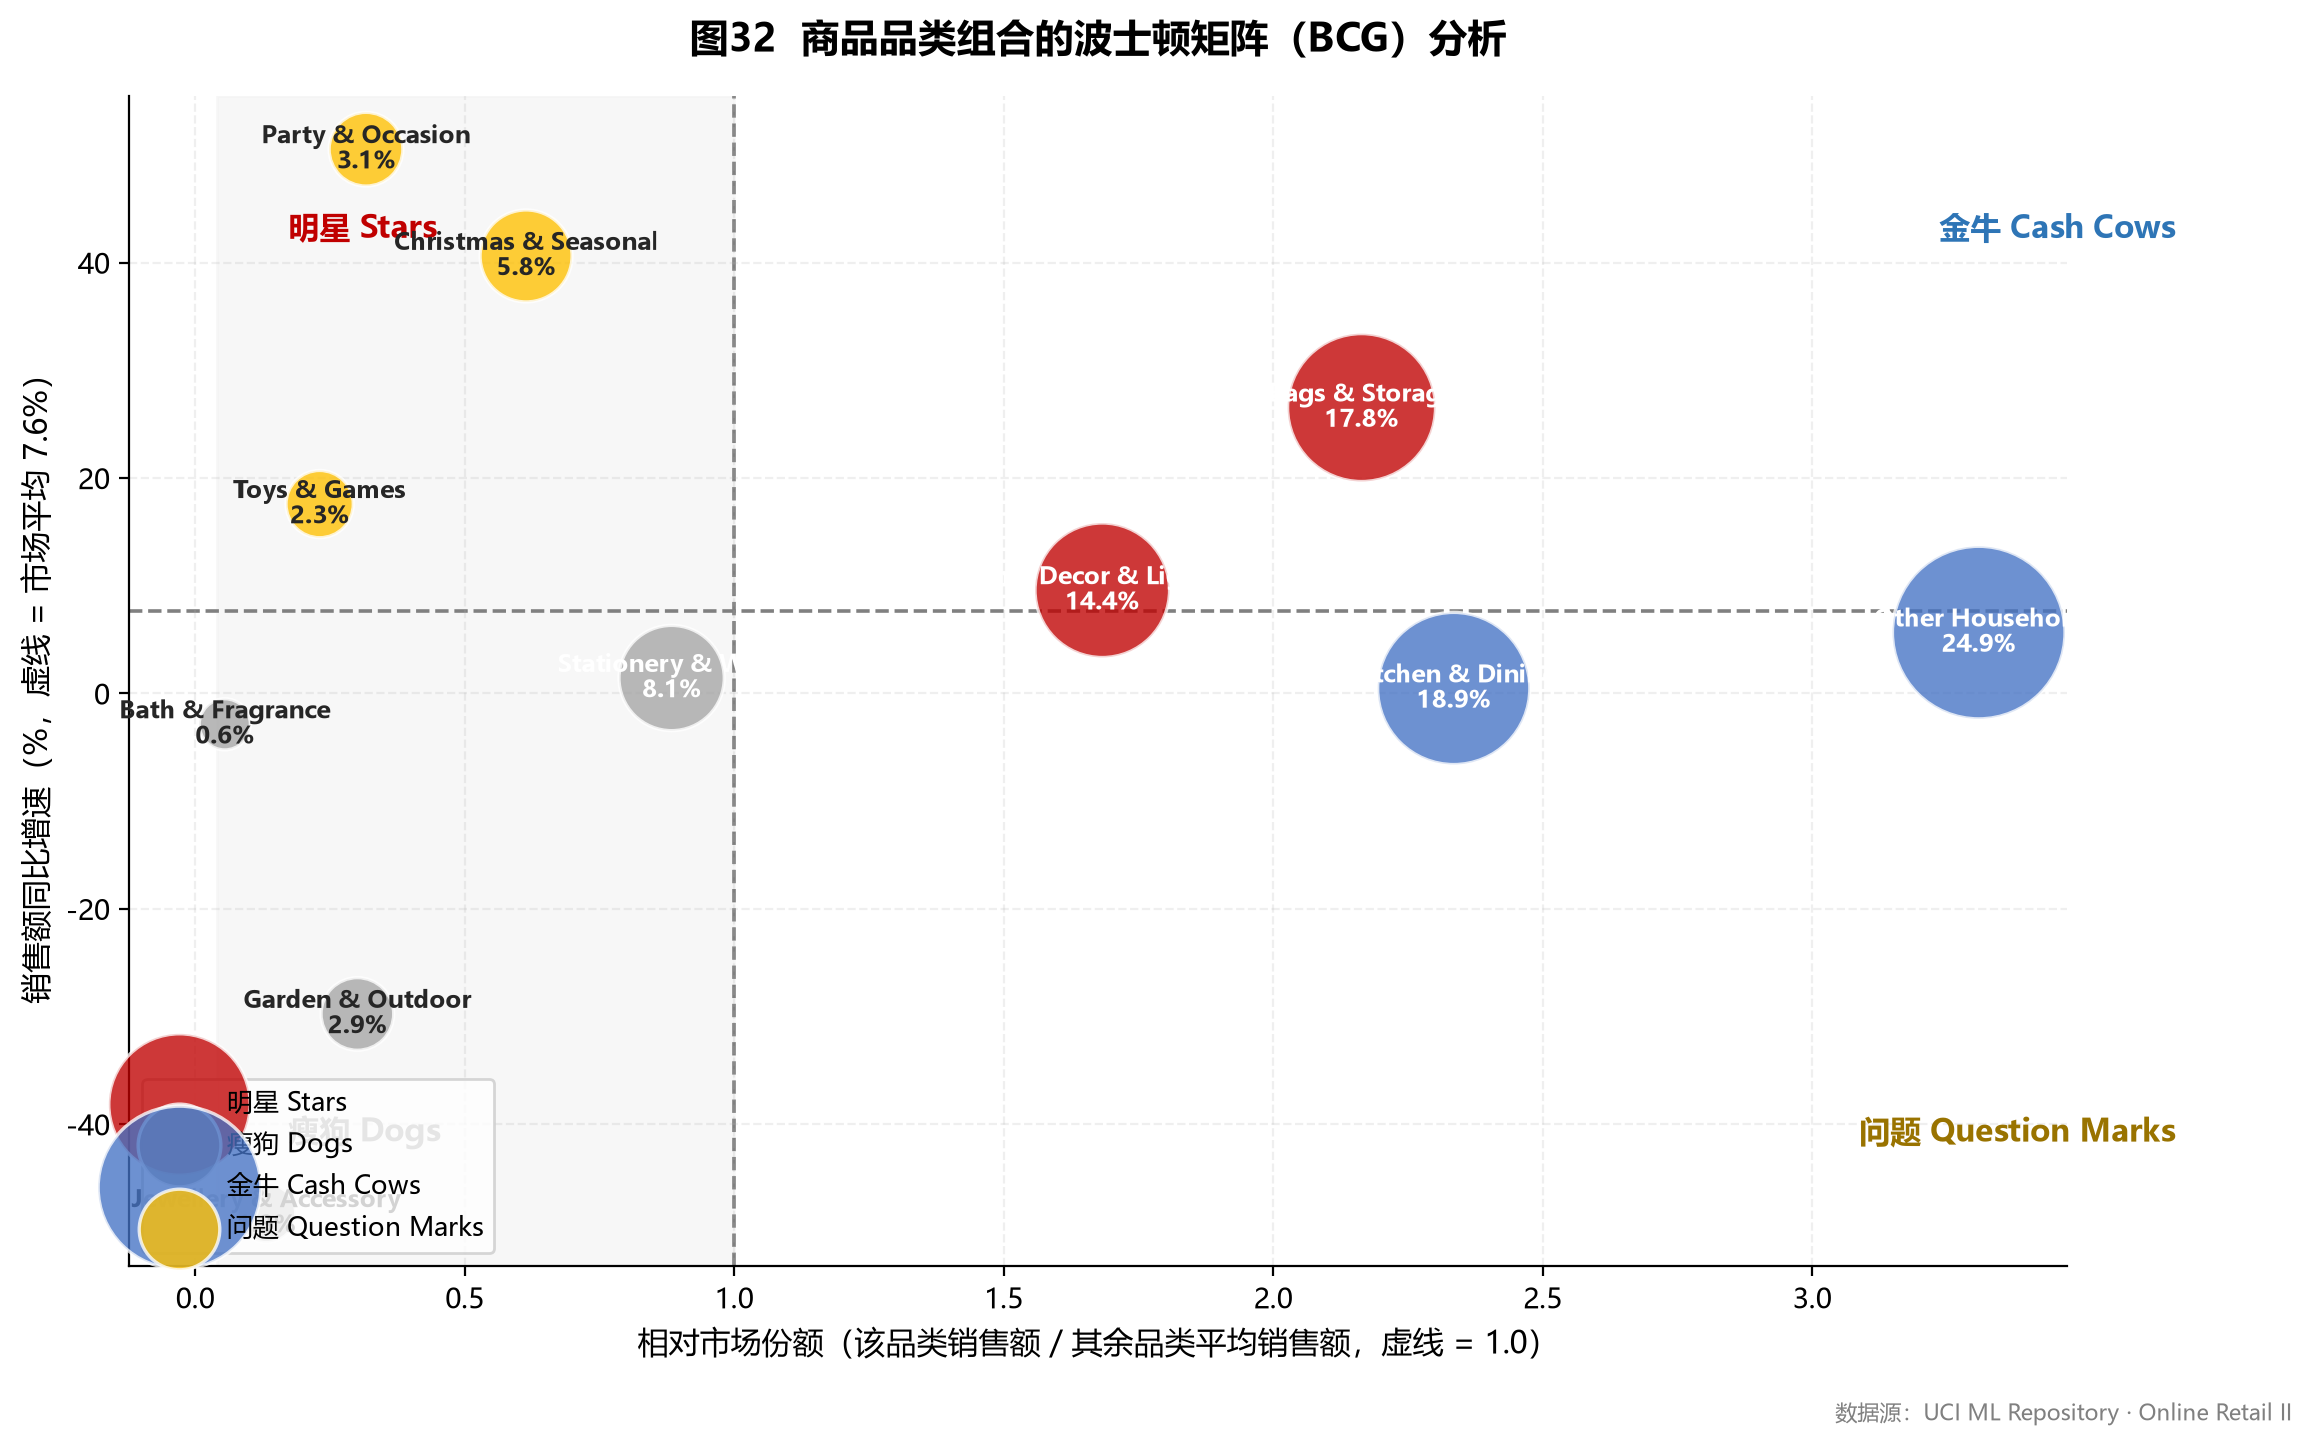
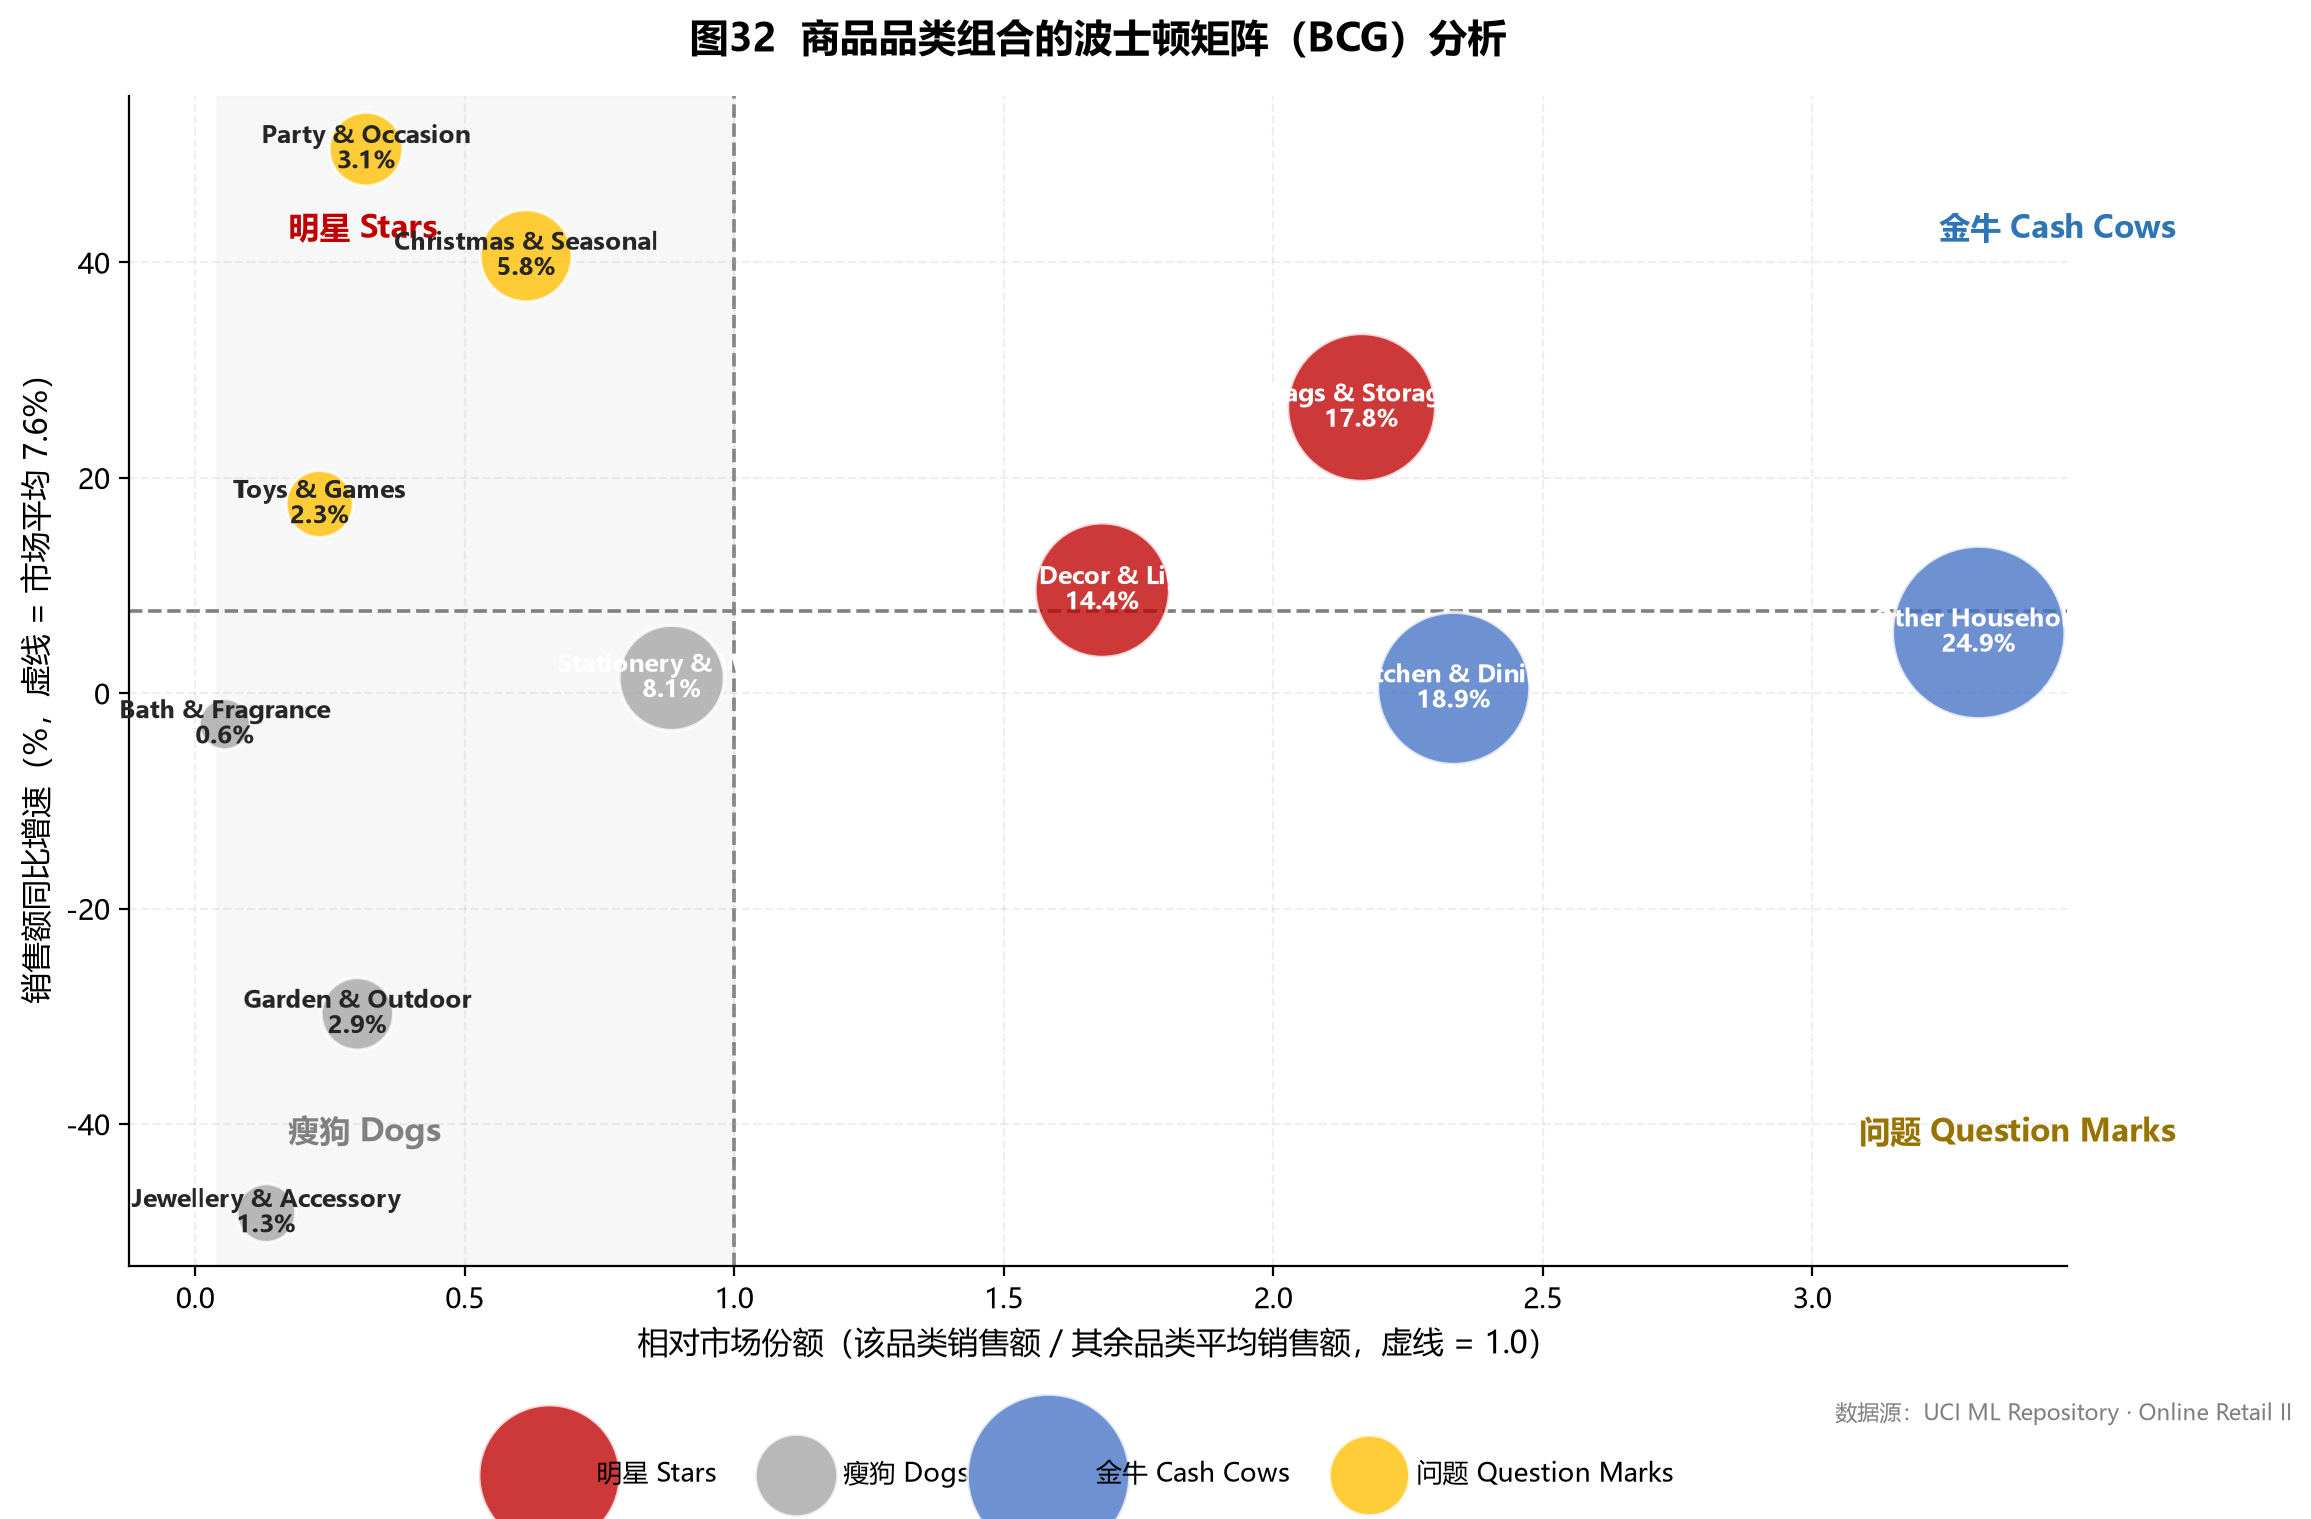
fix: 图32 BCG矩阵图例移至底部横排，消除与左下角瘦狗象限小气泡的遮挡

diff --git a/scripts/04_visuals.py b/scripts/04_visuals.py
@@ -829,7 +829,10 @@ def fig32_bcg(bcg: pd.DataFrame, params: dict) -> Path:
     ax.set_xlabel("相对市场份额（该品类销售额 / 其余品类平均销售额，虚线 = 1.0）")
     ax.set_ylabel(f"销售额同比增速（%，虚线 = 市场平均 {y_cut:.1f}%）")
     ax.set_title("图32  商品品类组合的波士顿矩阵（BCG）分析", pad=16)
-    ax.legend(loc="lower left", fontsize=9.5, frameon=True)
+    # 图例置底横排：左下角为瘦狗象限小气泡聚集区，就地放置会与
+    # Bath & Fragrance 等气泡及「瘦狗」象限标签相互遮挡
+    ax.legend(loc="upper center", bbox_to_anchor=(0.5, -0.145), ncol=4,
+              fontsize=9.5, frameon=False)
     ax.grid(alpha=0.2, linestyle="--")
     return _out(fig, "fig32_bcg_matrix")
 
